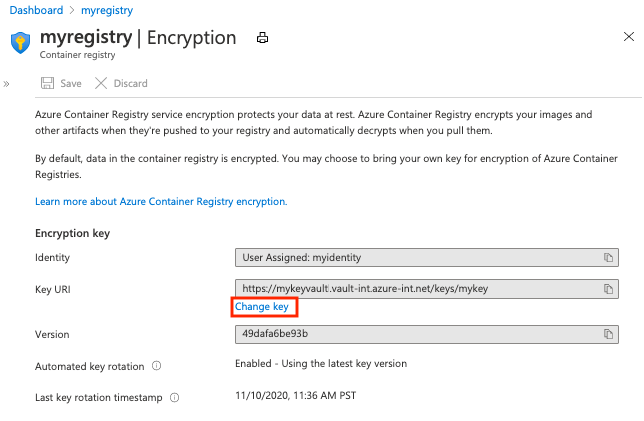
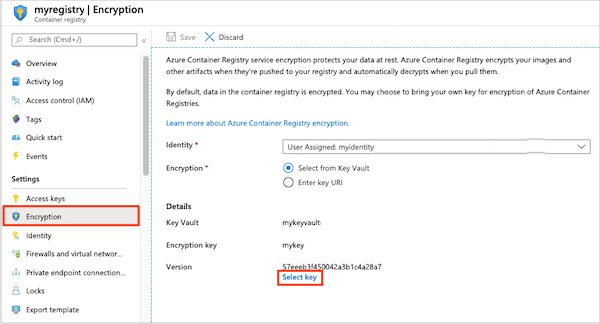
cli rollout

diff --git a/articles/container-registry/container-registry-customer-managed-keys.md b/articles/container-registry/container-registry-customer-managed-keys.md
@@ -41,6 +41,9 @@ When you configure registry encryption with a customer-managed key, you have two
 
 * **Manually update the key version** - To use a specific version of a key for registry encryption, specify that key version when you enable registry encryption with a customer-managed key. When a registry is encrypted with a specific key version, Azure Container Registry uses that version for encryption until you manually rotate the customer-managed key.
 
+> [!NOTE]
+> Currently you can only use the Azure CLI to configure the registry to automatically update the customer-managed key version. When using the portal to enable encryption, you must manualy update the key version.
+
 For details, see [Choose key ID with or without key version](#choose-key-id-with-or-without-key-version) and [Update key version](#update-key-version), later in this article.
 
 ## Prerequisites
@@ -271,15 +274,13 @@ Alternatively, use [Azure RBAC for Key Vault](../key-vault/general/rbac-guide.md
     1. Assign access to **User assigned managed identity**.
     1. Select the resource name of your user-assigned managed identity, and select **Save**.
 
-### Create key (optional)
-
-Optionally create a key in the key vault for use to encrypt the registry. Follow these steps if you want to select a specific key version as a customer-managed key. 
+### Create key
 
 1. Navigate to your key vault.
 1. Select **Settings** > **Keys**.
 1. Select **+Generate/Import** and enter a unique name for the key.
 1. Accept the remaining default values and select **Create**.
-1. After creation, select the key and then select the current version. Copy the **Key identifier** for the key version.
+1. After creation, select the key and take note of the current key version.
 
 ### Create Azure container registry
 
@@ -287,13 +288,10 @@ Optionally create a key in the key vault for use to encrypt the registry. Follow
 1. In the **Basics** tab, select or create a resource group, and enter a registry name. In **SKU**, select **Premium**.
 1. In the **Encryption** tab, in **Customer-managed key**, select **Enabled**.
 1. In **Identity**, select the managed identity you created.
-1. In **Encryption**, do one of the following:
-    1. To provide a non-versioned key that enables automatic updates of key versions, select **Select from Key Vault**, and then select a new key.
-      
-       In the **Select key from Azure Key Vault** window, select an existing key vault and key, or **Create new**. 
-    1. To provide a versioned key, which doesn't support automatic updates of key values, select **Enter key URI**. Provide the key identifier of a versioned key. 
+1. In **Encryption**, select **Select from Key Vault**.
+1. In the **Select key from Azure Key Vault** window, select the key vault, key, and version you created in the preceding section.
 1. In the **Encryption** tab, select **Review + create**.
-1. Select **Create** to deploy the registry instance.
+1. Select **Create** to create the registry instance.
 
 :::image type="content" source="media/container-registry-customer-managed-keys/create-encrypted-registry.png" alt-text="Create encrypted registry in the Azure portal":::
 
@@ -495,13 +493,11 @@ For example, to configure a new key:
 
 1. In the portal, navigate to your registry.
 1. Under **Settings**, select  **Encryption** > **Change key**.
+1. Select **Select key**.
 
     :::image type="content" source="media/container-registry-customer-managed-keys/rotate-key.png" alt-text="Rotate key in the Azure portal":::
-1. In **Encryption**, do one of the following:
-    1. To provide a non-versioned key that enables automatic updates of key versions, select **Select from Key Vault**, and then select a new key.
-      
-       In the **Select key from Azure Key Vault** window, select an existing key vault and key, or **Create new**. 
-    1. To provide a versioned key, which doesn't support automatic updates of key values, select **Enter key URI**. Provide the key identifier of a versioned key.
+1. In the **Select key from Azure Key Vault** window, select the key vault and key you configured previously, and in **Version**, select **Create new**.
+1. In the **Create a key** window, select **Generate**, and then **Create**.
 1. Complete the key selection and select **Save**.
 
 ## Revoke key
